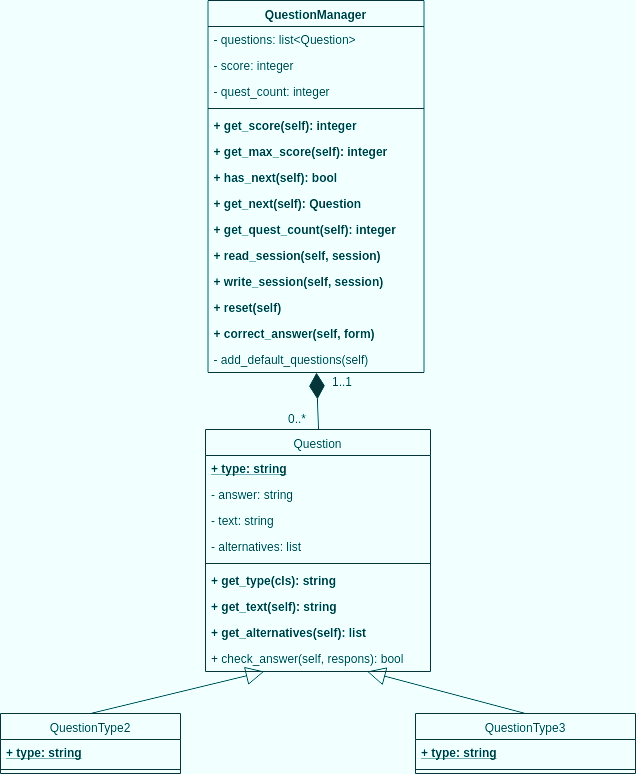
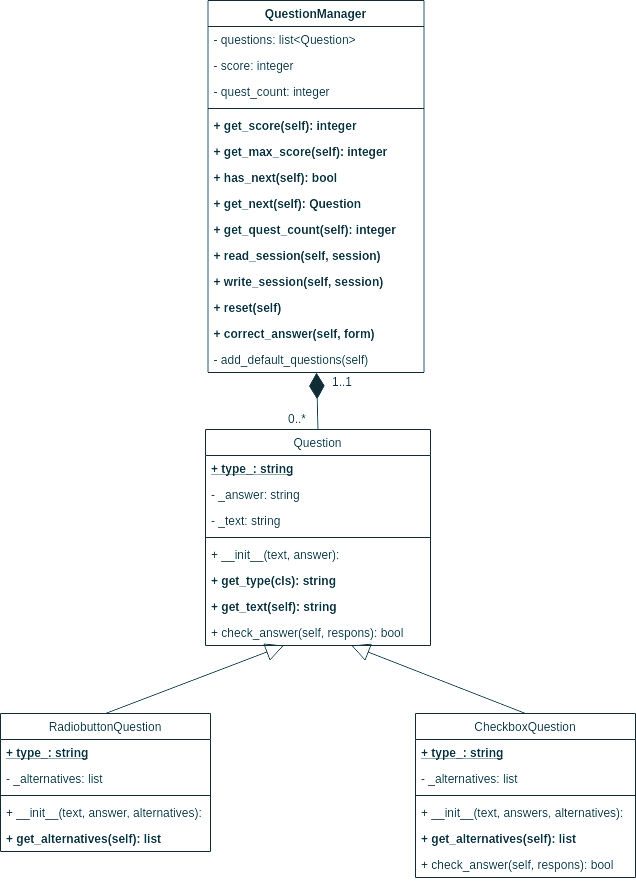
Uppdaterad inför VT20

Changed region(s): [[0.2987, 0.0, 1.0, 1.0], [0.0, 0.8062, 0.3286, 1.0]]

diff --git a/content/uppgift/1187_fragesport_med_flask.md b/content/uppgift/1187_fragesport_med_flask.md
@@ -1,6 +1,7 @@
 ---
 author: aar
 revision:
+    "2020-01-24": (B, aar) Uppdaterad inför VT20.
     "2018-11-29": (A, aar) First version.
 category:
     - oopython
@@ -27,7 +28,7 @@ Du har läst guiden "[Klass relationer](guide/kom-igang-med-objektorienterad-pro
 Introduktion {#intro}
 -----------------------    
 
-Du jobbar vid sidan om dina studier och din kund vill att du gör klart en webbsida som redan är påbörjad. Gränssnittet och routes för sidan är redan klart, du ska skapa klasserna för backend:en till webbsidan. I och med att frontend redan är klar och innehåller anrop till koden du ska skapa behöver dina klasser uppfylla abstraktionskraven som det medför. Med det menas att i dina klasser behöver det finnas vissa metoder och attribut med rätt namn, annars kommer inte frontend fungera med din backend. I klassdiagrammet nedanför kan du se vilket gränssnitt din klasser måste uppfylla. Men gränssnitt menas existerande publika metoder.
+Du jobbar vid sidan om dina studier och din kund vill att du gör klart en webbsida som redan är påbörjad. Gränssnittet och routes för sidan är redan klart, du ska skapa klasserna för backend:en till webbsidan. I och med att frontend redan är klar och innehåller anrop till koden du ska skapa behöver dina klasser uppfylla abstraktionskraven som det medför. Med det menas att i dina klasser behöver det finnas vissa metoder och attribut med rätt namn, annars kommer inte frontend fungera med din backend. I klassdiagrammet nedanför kan du se vilket gränssnitt din klasser måste uppfylla. Med gränssnitt menas existerande publika metoder.
 
 [YOUTUBE src=PCGwx_wpzME width=630 caption="Så här kan det se ut när det är färdigt."]
 
@@ -35,9 +36,11 @@ Du ska implementera klasserna för de tre frågetyperna och handlern som app.py 
 
 [FIGURE src=/image/oopython/kmom02/fragesport_uml.png caption="Klassdiagram för uppgiften."]
 
-Attributen och metoderna som är **bold**-markerad används av den färdiga koden ni får och måste därför implementeras av er med de namnen. Övriga är bara exempel på vad man kan ha med. `QuestionType2` och `QuestionType3` innehåller bara ett statisk attribut som ett måste men du kommer också behöva överlagra några av metoderna från `Question` för att det ska bli bra. Vilka metoder beror på vilken klass du väljer som basklass. Jag hade även bytt namn på Question klasserna så det inte bara är type2 eller 3. Förhoppningen är att metodnamnen är beskrivande nog över vad de ska göra men om du är osäker är det bara att fråga.
+Attributen och metoderna som är **bold**-markerad används av den färdiga koden ni får och måste därför implementeras av er med de namnen. Övriga är bara exempel på vad man kan ha med.
 
-[YOUTUBE src=AuUrQW9mNeY width=630 caption="Andreas förklarar klassdiagrammet och koden som ska skrivas."]
+<!-- [YOUTUBE src=AuUrQW9mNeY width=630 caption="Andreas förklarar klassdiagrammet och koden som ska skrivas."] -->
+
+[YOUTUBE src=GBmyT_TntXA width=630 caption="Andreas förklarar klassdiagrammet och koden som ska skrivas."]
 
 I session behöver vi spara den dynamiska data, som applikationen inte kommer ihåg mellan request:en, vilket är hur många poäng spelaren har och vilken fråga spelaren är på. I write_session skriv den datan till session och i read_session hämta den datan från session.
 
@@ -46,7 +49,7 @@ I session behöver vi spara den dynamiska data, som applikationen inte kommer ih
 Krav {#krav}
 -----------------------
 
-Börja med att kopiera frontend:en till ditt uppgift.
+Börja med att kopiera frontend koden till ditt uppgift.
 
 ```bash
 # Ställ dig i kurskatalogen
@@ -54,17 +57,17 @@ cp -ri example/flask/questions me/kmom02/
 cd me/kmom02/questions
 ```
 
-1. Kolla på youtube-klippet ovanför för att få en översyn av vad du ska göra.
+1. Kolla på youtube-klippen ovanför för att få en översyn av vad du ska göra.
 
 1. Bekanta dig med koden, kolla igeom app.py för att se vilka routes som finns och vilka html filer som används till vad. Leta efter alla anrop som görs till klasserna du ska skapa så att du får en bild av vilka metod som behövs och vad de används till.
 
-1. Implementera klasserna som behövs i filerna `handler.py` och `questions.py`, en handler klass som heter `QuestionManager` och tre klasser för frågorna. Typerna av frågor är fritext svar, flervalsfrågor med flera rätt (checkboxes) och flervalsfrågor med ett rätt svar (radiobuttons). Välj ut en av dem som basklass och låt de andra två ärva från basklassen. I mappen `templates/answer_types` finns en html template för varje frågetyp (du ska inte behöva ändra i dem).
+1. Implementera klasserna som behövs i filerna `handler.py` och `questions.py`, en handler klass som heter `QuestionManager` och tre klasser för frågorna. Typerna av frågor är fritext (text) svar, flervalsfrågor med flera rätt (checkbox) och flervalsfrågor med ett rätt svar (radiobutton). I mappen `templates/answer_types` finns en html template för varje frågetyp (du ska inte behöva ändra i dem).
 
 1. Frågeklasserna behöver innehålla en fråga, svaret och svarslternativen, om det finns några. De behöver ha metoder för att hämta värdena och en metod för att kolla om användarens svar är rätt. 
 
 1. Handlern ska äga alla tillgängliga frågor, hålla reda på hur många poäng spelaren har, vilken fråga man är på och vad max poängen är. Det ska finnas metoder för att hämta antalet poäng, max poäng, kolla om det finns fler frågor, hämta nästa fråga, läsa från session, skriva till session, återställa spelet och kolla om användarens input är rätt svar på nuvarande frågan.
 
-1. Använd dig av `print()` i metoderna du skapar, kolla klassdiagrammet och kolla där anrop görs för att ta reda på vad som skickas som argument till dina metoder.
+1. När du börjar utveckla en ny metod som anropas från koden ni får, använd dig av `print()` i metoden du skapar och kolla klassdiagrammet för att ta reda på vad som skickas som argument till din metod.
 
 1. Session ska användas för att hålla kolla på hur många poäng spelaren har och vilken fråga spelaren är på. Ni behöver inte spara fråge objekten i session.
 
@@ -86,6 +89,10 @@ Extrauppgift {#extra}
 -----------------------
 
 1. För de frågor med checkboxes ge poäng för varje rätt alternativ. Om det är två alternativ som är rätt på frågan ska den vara värd två poäng.
+
+1. På score screen visa också de rätta svaren.
+
+1. På score screen visa också de rätta svaren och vad användaren svarade.
 
 
 
